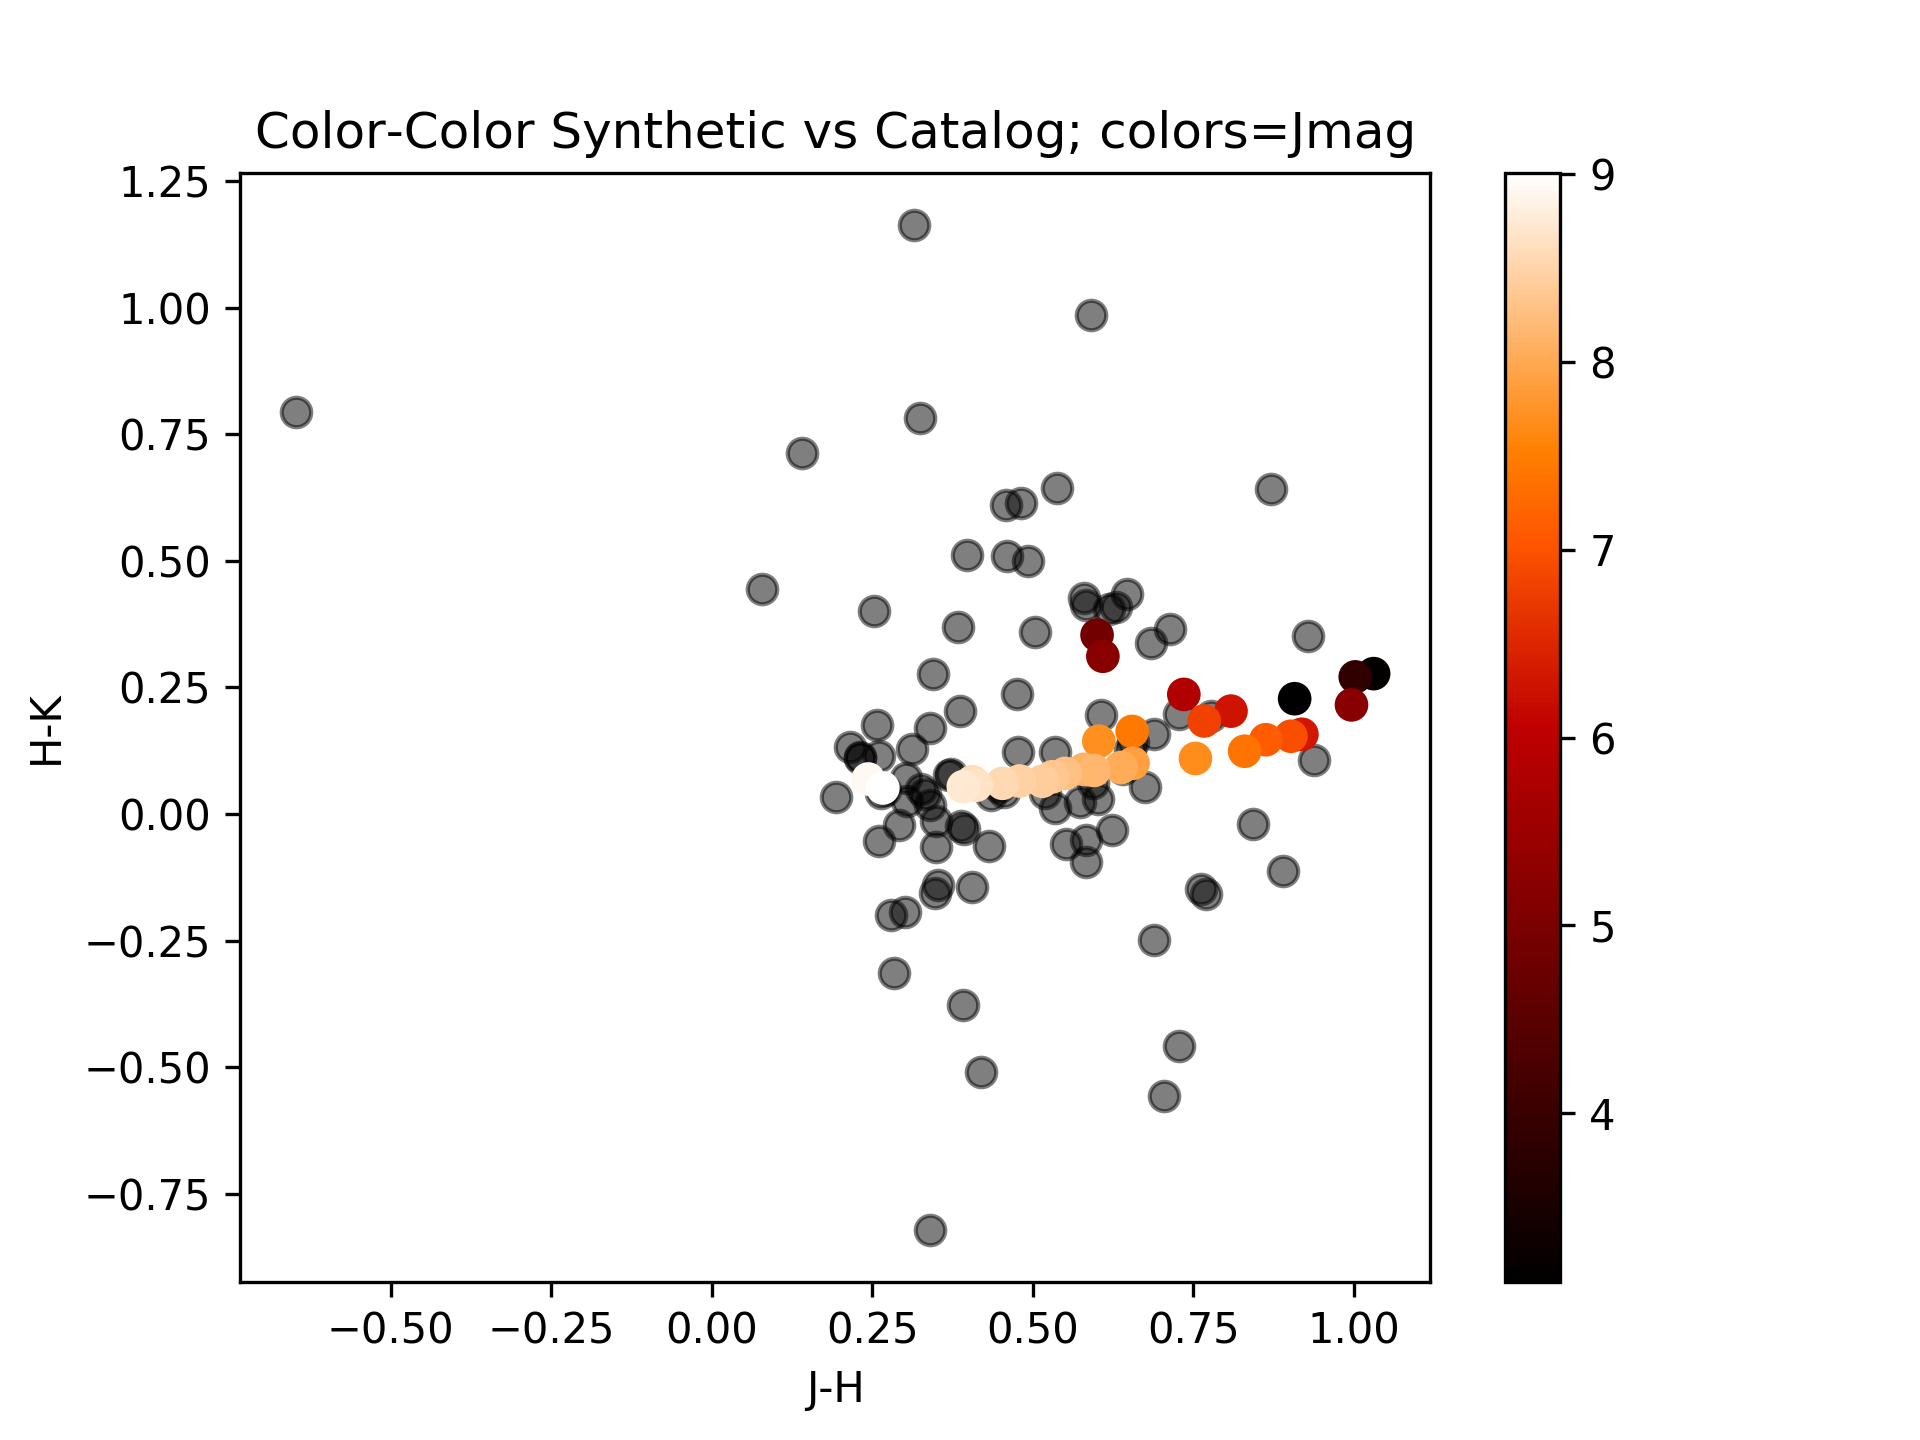
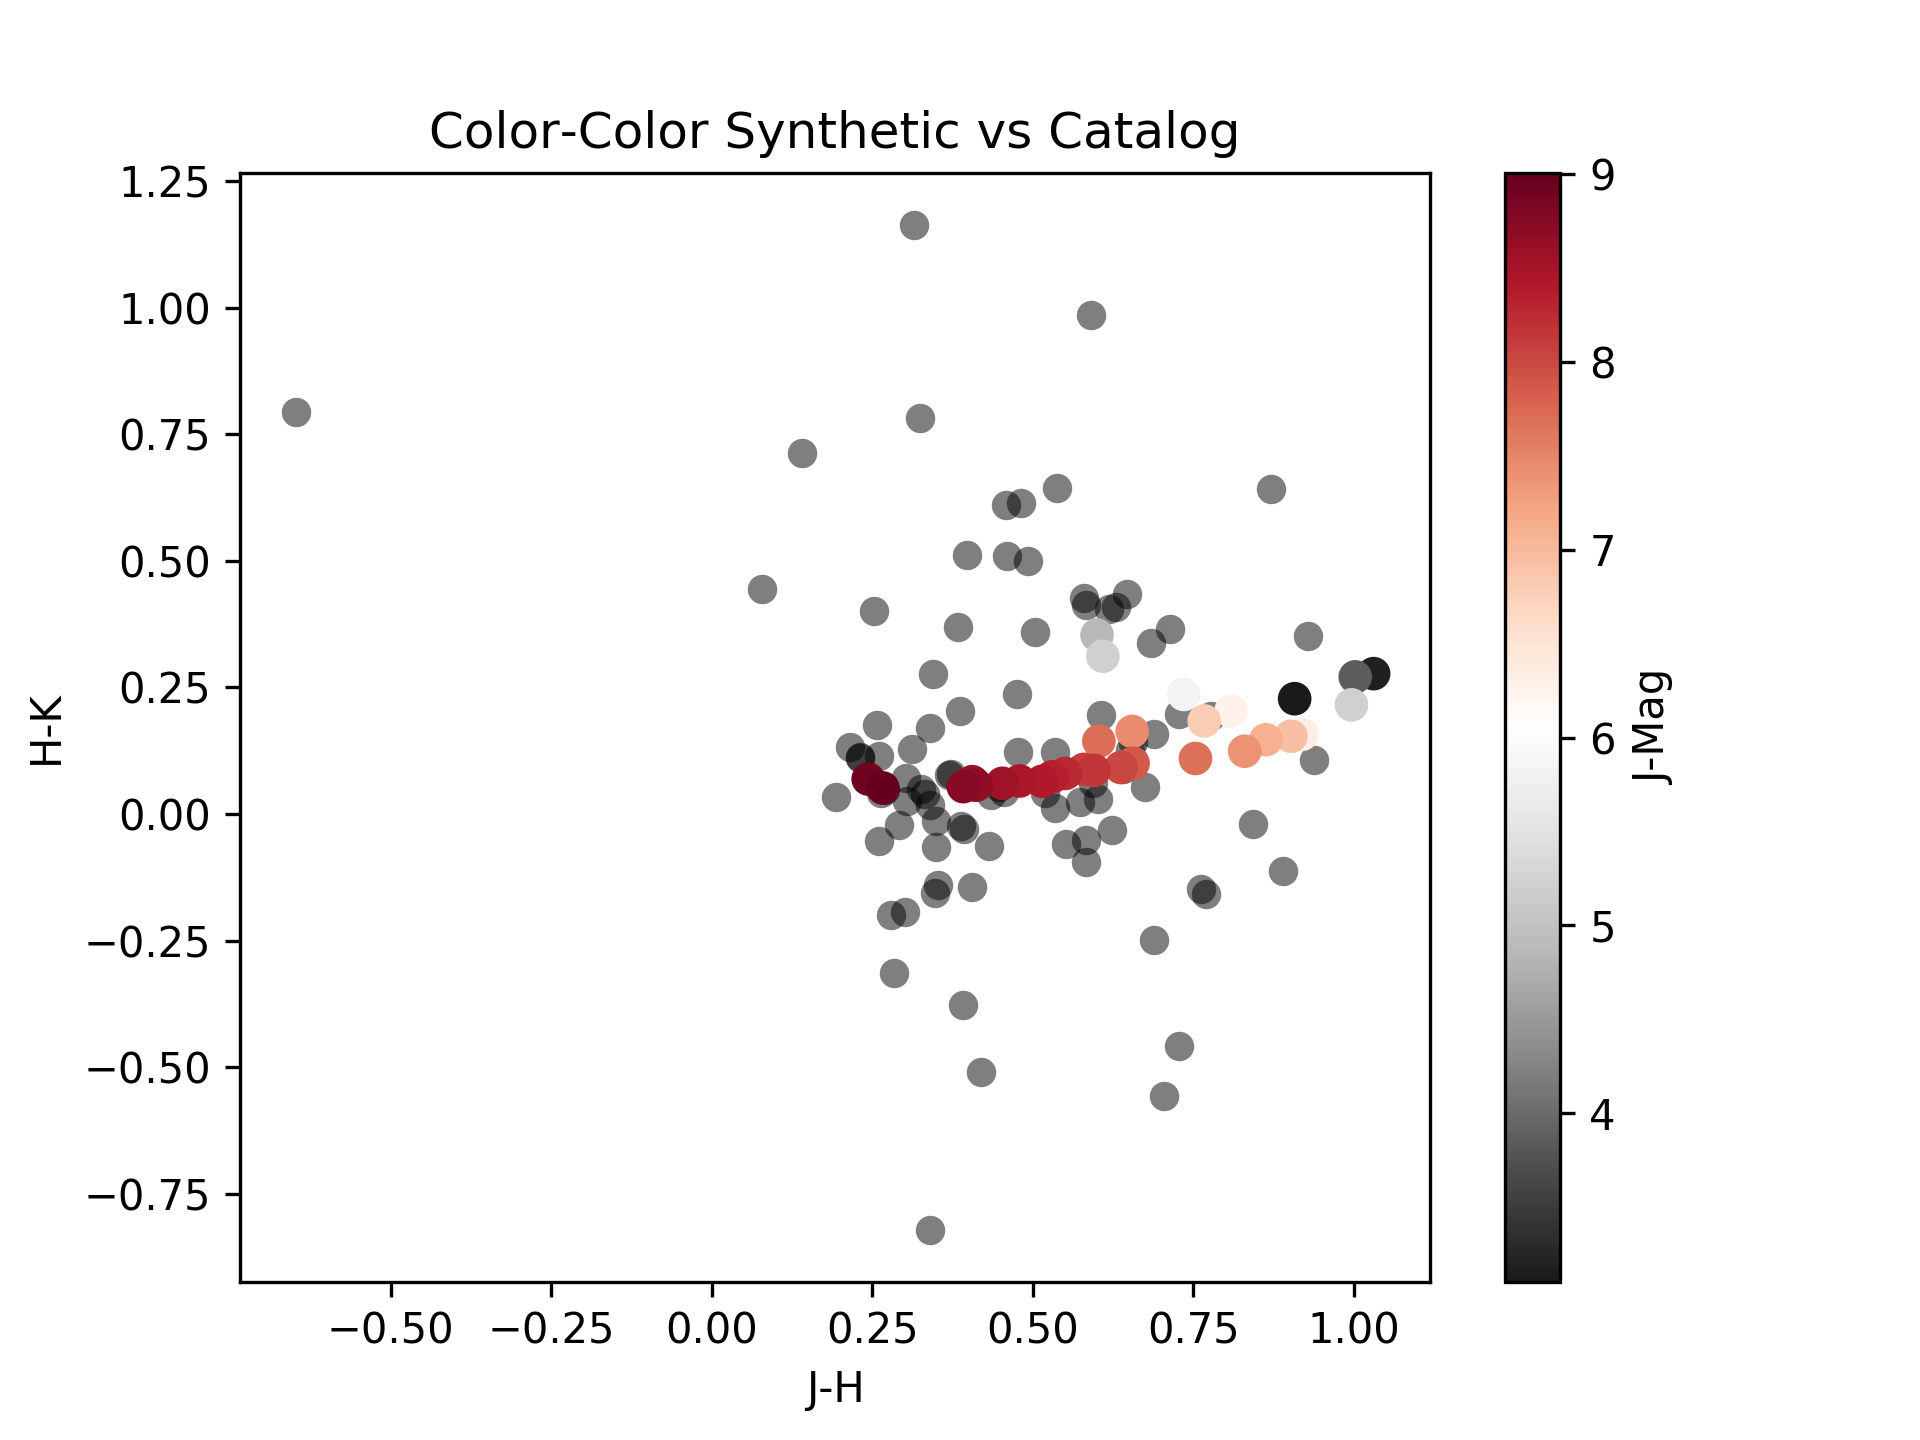
Updated Plot Colors

diff --git a/generate_JH_HK_colors.py b/generate_JH_HK_colors.py
@@ -101,8 +101,8 @@ def hmsdms2deg(ra,dec):
     return raOut, decOut
 
 # RA and Dec for HAT-P-11
-ra     ='19:50:50.25'
-dec    ='+48:04:51.1'
+ra     = '19:50:50.25'
+dec    = '+48:04:51.1'
 binComp=None
 
 deg2rad     = np.pi/180
@@ -114,28 +114,29 @@ deg2arcsec  = 3600
 targetCoords  = coords.SkyCoord(ra=ra, dec=dec, unit=(u.hour, u.deg), frame='icrs')
 fieldSources  = Irsa.query_region(targetCoords, catalog="fp_psc", spatial='Box', width=4 * u.arcmin)
 
-sourceRA    = fieldSources['ra'].data.data # in degrees
+sourceRA    = fieldSources['ra'].data.data  # in degrees
 sourceDec   = fieldSources['dec'].data.data # in degrees
 sourceJmag  = fieldSources['j_m'].data.data
 sourceHmag  = fieldSources['h_m'].data.data
 sourceKmag  = fieldSources['k_m'].data.data
 
 # target coords
-sky_distance    = sqrt((sourceRA-targetCoords.ra.value)**2. + (sourceDec-targetCoords.dec.value)**2.)
-targetIndex     = np.argmin(sky_distance)
+sky_distance= sqrt((sourceRA-targetCoords.ra.value)**2. + (sourceDec-targetCoords.dec.value)**2.)
+targetIndex = np.argmin(sky_distance)
 
-sourceJ_H   = (sourceJmag-sourceHmag)
-sourceH_K   = (sourceHmag-sourceKmag)
+sourceJ_H   = (sourceJmag - sourceHmag)
+sourceH_K   = (sourceHmag - sourceKmag)
 
-ra,dec = deg2HMS(sourceRA[targetIndex], sourceDec[targetIndex], round=True)
+ra,dec      = deg2HMS(sourceRA[targetIndex], sourceDec[targetIndex], round=True)
 
 rcParams['figure.dpi'] = 300
 
-scatter(sourceJ_H, sourceH_K, s=50, c='k', alpha=0.5)
-sc = scatter(jhmod, hkmod,s=50,c=Jmags)
+scatter(sourceJ_H, sourceH_K, s=50, c='k', alpha=0.5, lw = 0)
+sc = scatter(jhmod, hkmod,s=50,c=Jmags,cmap=cm.RdGy_r)
 xlabel('J-H')
 ylabel('H-K')
-title('Color-Color Synthetic vs Catalog; colors=Jmag')
-colorbar(sc)
+title('Color-Color Synthetic vs Catalog')
+cb = colorbar(sc)
+cb.set_label('J-Mag')
 savefig('JH_HK_color_color_plots_sunlike_stars.png')
 # plt.show()
